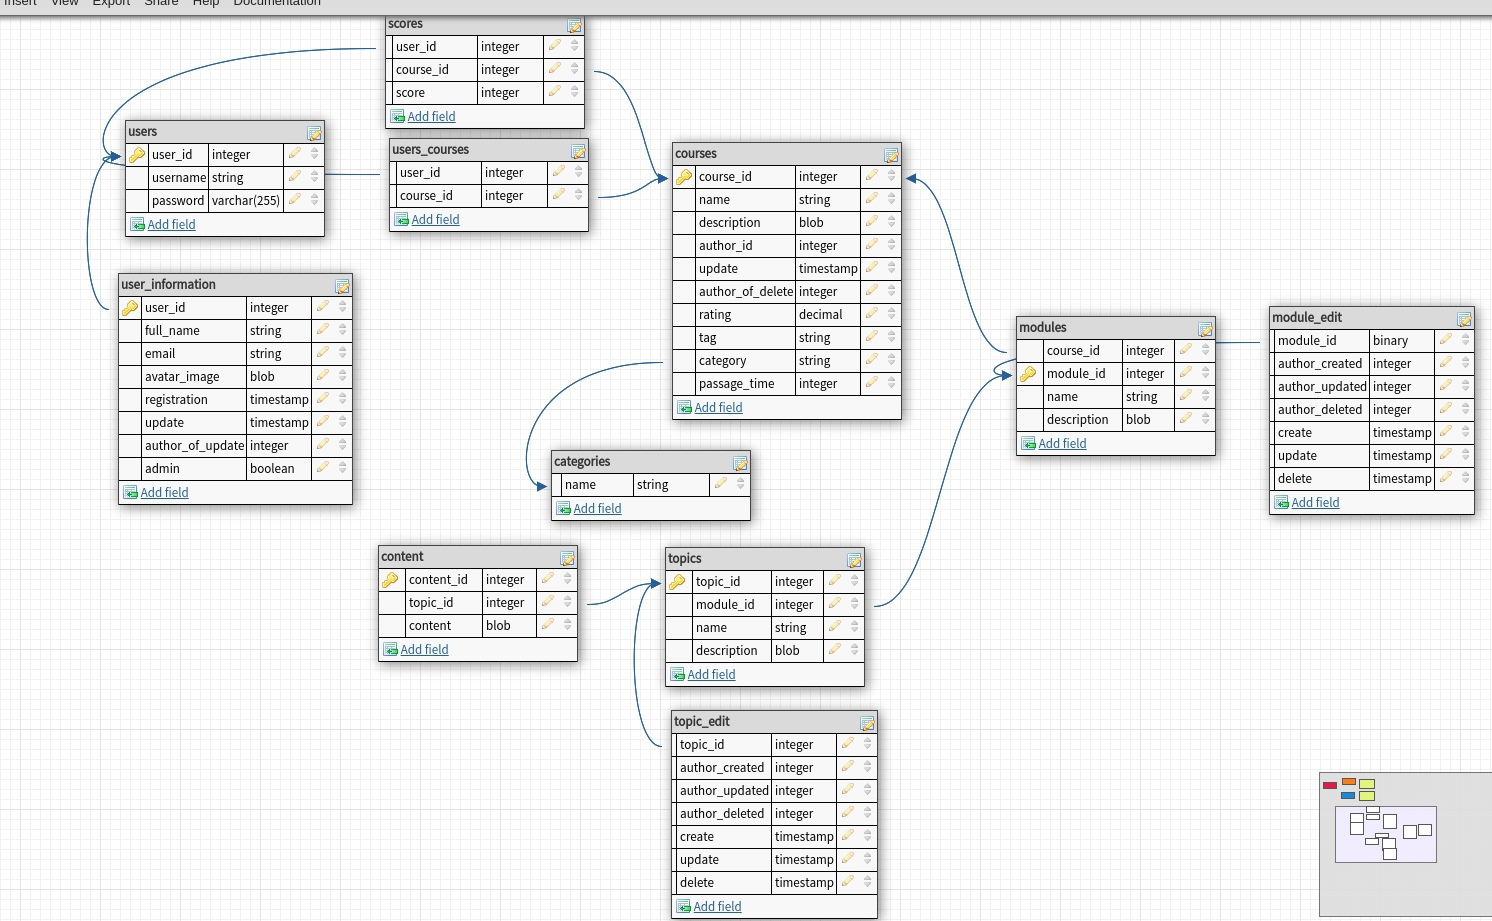
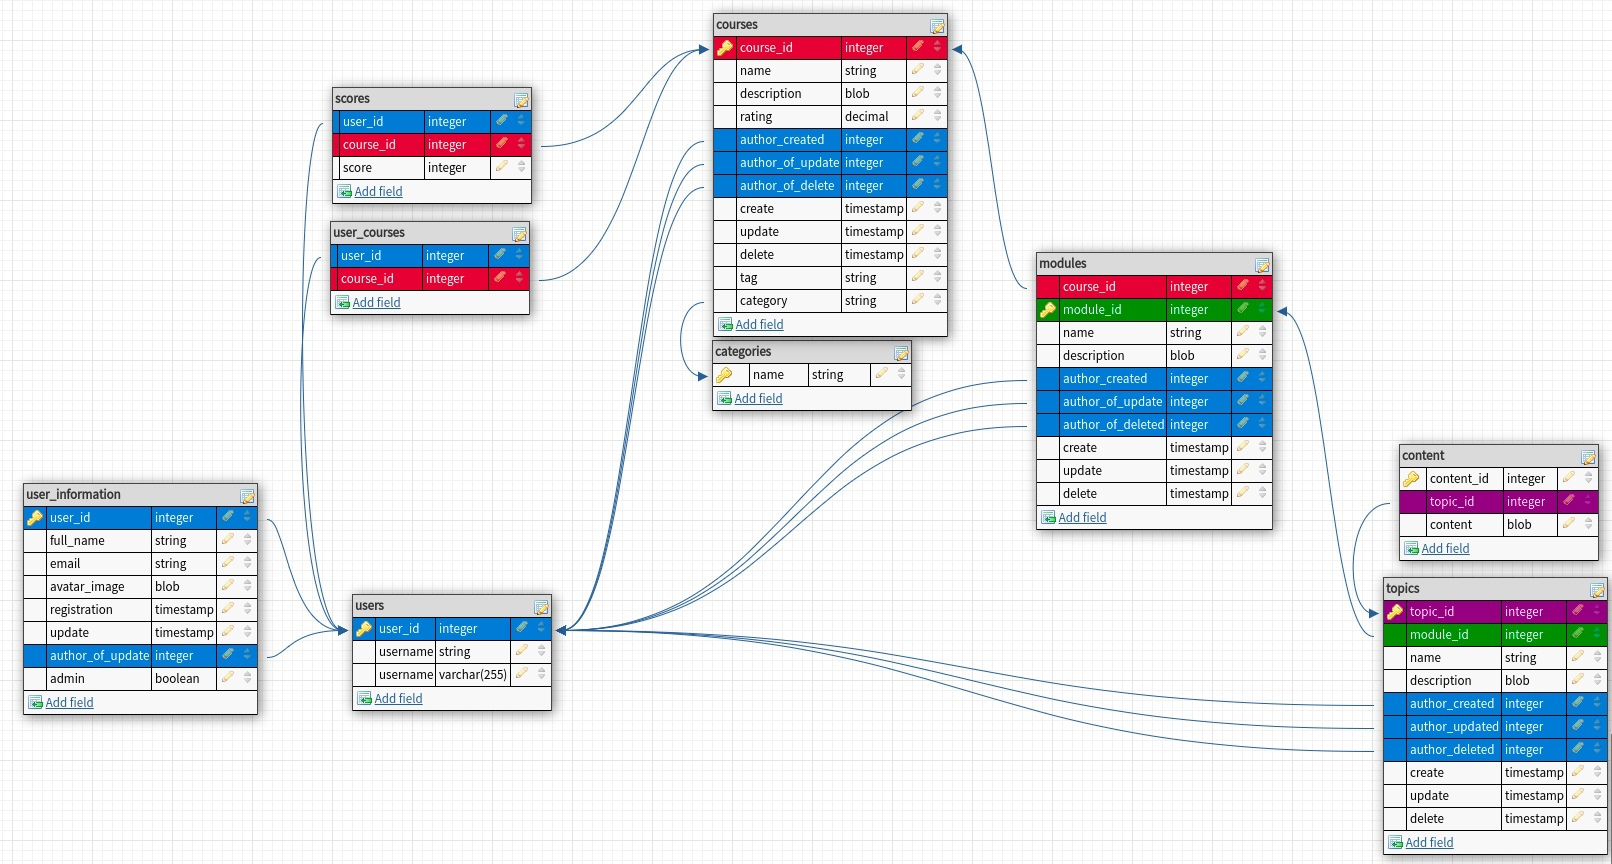
исправление схемы и обновление запросов

Changed region(s): [[0.0, 0.0, 1.0, 1.0]]

diff --git a/README.md b/README.md
@@ -1,10 +1,10 @@
 # БД:
 ![схема](db.jpg) \n
 Основные запросы:
-1. Авторизация: SELECT password FROM users WHERE id = ?
-2. Все курсы: SELECT * FROM courses ORDER BY rating DESC. Индекс на таблицу: CREATE INDEX idx_courses ON courses USING btree (title, rating, category);
-3. Курсы пользователя: SELECT * FROM coures WHERE course_id IN ( SELECT course_id FROM users_courses WHERE user_id = ?)
-4. Модули курса: SELECT * FROM modules WHERE course_id = ? Индекс: CREATE INDEX idx_modules ON modules USING btree (name, author_create);
-5. Топики модуля: SELECT * FROM topics WHERE module_id = ? Индекс: CREATE INDEX idx_topics ON modules USING btree (name, author_create);
+1. Авторизация: SELECT password FROM users WHERE user_id = ?
+2. Все курсы: SELECT * FROM courses ORDER BY rating DESC. Индекс на таблицу: CREATE INDEX idx_courses_title ON courses USING btree title; CREATE INDEX idx_courses_rating ON courses USING btree rating, CREATE INDEX idx_courses_category ON courses USING btree category
+3. Курсы пользователя: SELECT * FROM coures WHERE course_id IN ( SELECT course_id FROM users_courses WHERE user_id = ?) 
+4. Модули курса: SELECT * FROM modules WHERE course_id = ? Индекс: CREATE INDEX idx_modules ON modules USING btree name; CREATE INDEX idx_modules ON modules USING btree author_create; CREATE INDEX idx_modules ON modules USING btree name. Возможно стоит сделать и на course_id (т.к. курсов не так много, как модулей по отношению к топикам)
+5. Топики модуля: SELECT * FROM topics WHERE module_id = ? Индексы на таблицу topics аналогичные как для предыдущей
 6. Добавление курса пользователем к себе: INSERT INTO users_courses VALUES(?, ?)
 7. Создание топика: INSERT INTO topics VALUES(?,...,?)
